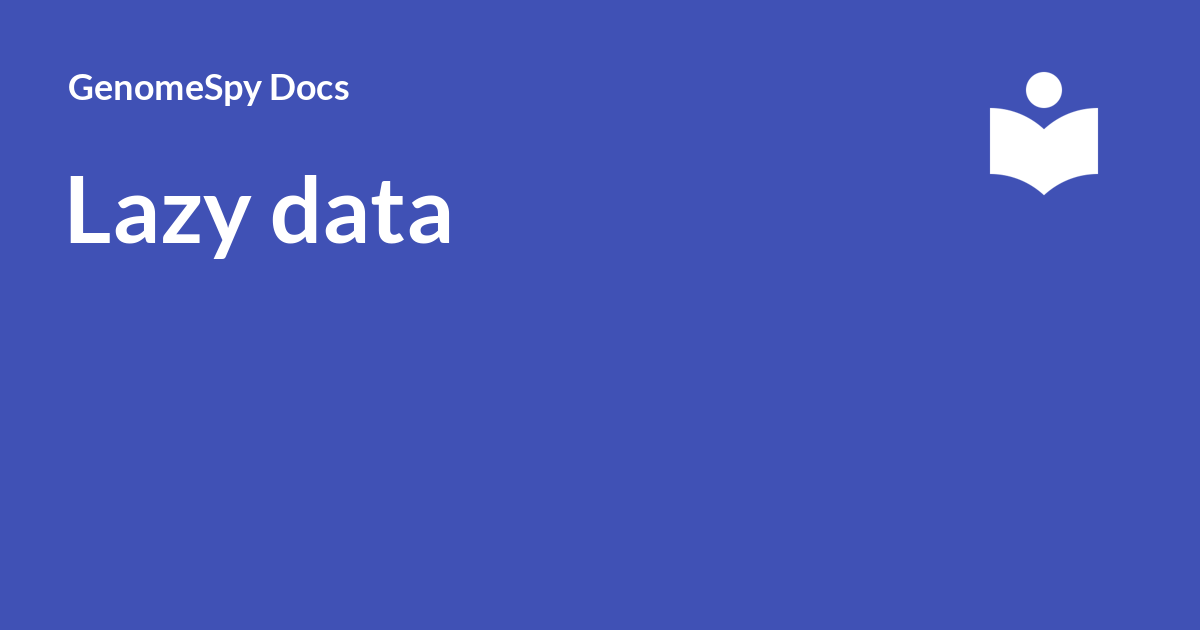
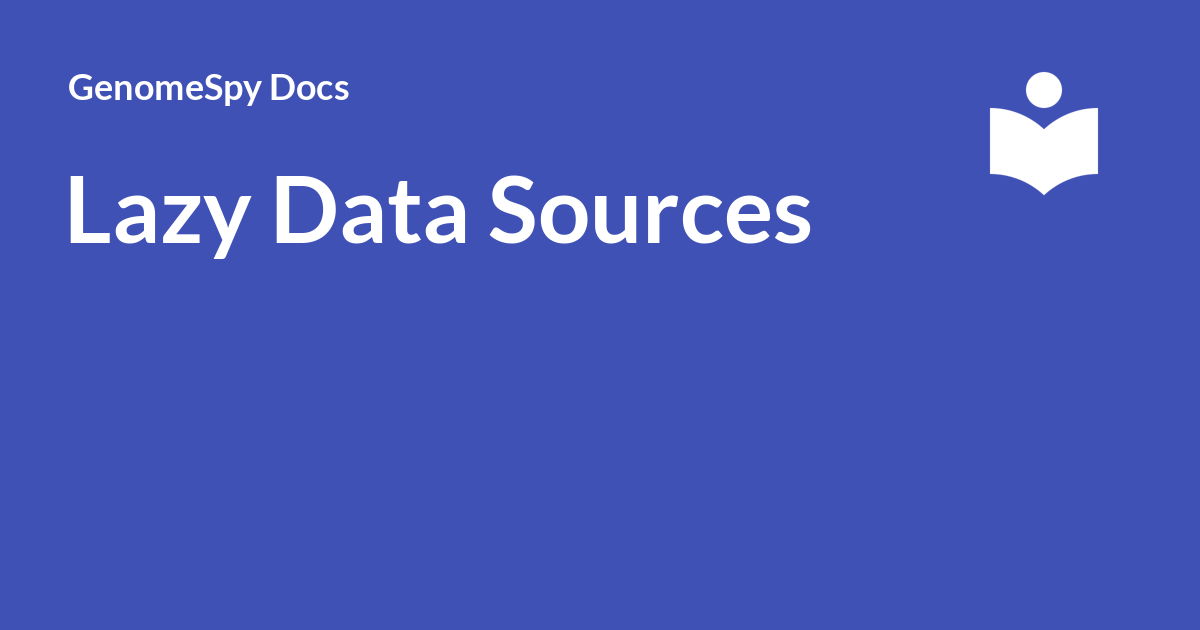
(docs) genome-spy/genome-spy@5c8ceca5e0acdb46549d25e3af512872ac8185b2

Changed region(s): [[0.2158, 0.2714, 0.6783, 0.3921]]

diff --git a/docs/grammar/data/eager/index.html b/docs/grammar/data/eager/index.html
@@ -21,7 +21,7 @@
     
     
       
-        <title>Eager data - GenomeSpy Docs</title>
+        <title>Eager Data Sources - GenomeSpy Docs</title>
       
     
     
@@ -55,7 +55,7 @@
       
         <meta  property="og:type"  content="website" >
       
-        <meta  property="og:title"  content="Eager data - GenomeSpy Docs" >
+        <meta  property="og:title"  content="Eager Data Sources - GenomeSpy Docs" >
       
         <meta  property="og:description"  content="None" >
       
@@ -71,7 +71,7 @@
       
         <meta  name="twitter:card"  content="summary_large_image" >
       
-        <meta  name="twitter:title"  content="Eager data - GenomeSpy Docs" >
+        <meta  name="twitter:title"  content="Eager Data Sources - GenomeSpy Docs" >
       
         <meta  name="twitter:description"  content="None" >
       
@@ -134,7 +134,7 @@
         <div class="md-header__topic" data-md-component="header-topic">
           <span class="md-ellipsis">
             
-              Eager data
+              Eager Data Sources
             
           </span>
         </div>
@@ -357,12 +357,12 @@
       
       
         <label class="md-nav__link md-nav__link--active" for="__toc">
-          Eager data
+          Eager Data Sources
           <span class="md-nav__icon md-icon"></span>
         </label>
       
       <a href="./" class="md-nav__link md-nav__link--active">
-        Eager data
+        Eager Data Sources
       </a>
       
         
@@ -423,7 +423,7 @@
   
     <li class="md-nav__item">
       <a href="../lazy/" class="md-nav__link">
-        Lazy data
+        Lazy Data Sources
       </a>
     </li>
   

diff --git a/docs/grammar/data/lazy/index.html b/docs/grammar/data/lazy/index.html
@@ -21,7 +21,7 @@
     
     
       
-        <title>Lazy data - GenomeSpy Docs</title>
+        <title>Lazy Data Sources - GenomeSpy Docs</title>
       
     
     
@@ -55,7 +55,7 @@
       
         <meta  property="og:type"  content="website" >
       
-        <meta  property="og:title"  content="Lazy data - GenomeSpy Docs" >
+        <meta  property="og:title"  content="Lazy Data Sources - GenomeSpy Docs" >
       
         <meta  property="og:description"  content="None" >
       
@@ -71,7 +71,7 @@
       
         <meta  name="twitter:card"  content="summary_large_image" >
       
-        <meta  name="twitter:title"  content="Lazy data - GenomeSpy Docs" >
+        <meta  name="twitter:title"  content="Lazy Data Sources - GenomeSpy Docs" >
       
         <meta  name="twitter:description"  content="None" >
       
@@ -134,7 +134,7 @@
         <div class="md-header__topic" data-md-component="header-topic">
           <span class="md-ellipsis">
             
-              Lazy data
+              Lazy Data Sources
             
           </span>
         </div>
@@ -348,7 +348,7 @@
   
     <li class="md-nav__item">
       <a href="../eager/" class="md-nav__link">
-        Eager data
+        Eager Data Sources
       </a>
     </li>
   
@@ -371,12 +371,12 @@
       
       
         <label class="md-nav__link md-nav__link--active" for="__toc">
-          Lazy data
+          Lazy Data Sources
           <span class="md-nav__icon md-icon"></span>
         </label>
       
       <a href="./" class="md-nav__link md-nav__link--active">
-        Lazy data
+        Lazy Data Sources
       </a>
       
         

diff --git a/docs/404.html b/docs/404.html
@@ -307,7 +307,7 @@
   
     <li class="md-nav__item">
       <a href="/docs/grammar/data/eager/" class="md-nav__link">
-        Eager data
+        Eager Data Sources
       </a>
     </li>
   
@@ -321,7 +321,7 @@
   
     <li class="md-nav__item">
       <a href="/docs/grammar/data/lazy/" class="md-nav__link">
-        Lazy data
+        Lazy Data Sources
       </a>
     </li>
   

diff --git a/docs/genomic-data/examples/index.html b/docs/genomic-data/examples/index.html
@@ -344,7 +344,7 @@
   
     <li class="md-nav__item">
       <a href="../../grammar/data/eager/" class="md-nav__link">
-        Eager data
+        Eager Data Sources
       </a>
     </li>
   
@@ -358,7 +358,7 @@
   
     <li class="md-nav__item">
       <a href="../../grammar/data/lazy/" class="md-nav__link">
-        Lazy data
+        Lazy Data Sources
       </a>
     </li>
   

diff --git a/docs/genomic-data/genomic-coordinates/index.html b/docs/genomic-data/genomic-coordinates/index.html
@@ -344,7 +344,7 @@
   
     <li class="md-nav__item">
       <a href="../../grammar/data/eager/" class="md-nav__link">
-        Eager data
+        Eager Data Sources
       </a>
     </li>
   
@@ -358,7 +358,7 @@
   
     <li class="md-nav__item">
       <a href="../../grammar/data/lazy/" class="md-nav__link">
-        Lazy data
+        Lazy Data Sources
       </a>
     </li>
   

diff --git a/docs/genomic-data/tracks/index.html b/docs/genomic-data/tracks/index.html
@@ -340,7 +340,7 @@
   
     <li class="md-nav__item">
       <a href="../../grammar/data/eager/" class="md-nav__link">
-        Eager data
+        Eager Data Sources
       </a>
     </li>
   
@@ -354,7 +354,7 @@
   
     <li class="md-nav__item">
       <a href="../../grammar/data/lazy/" class="md-nav__link">
-        Lazy data
+        Lazy Data Sources
       </a>
     </li>
   

diff --git a/docs/sample-collections/analyzing/index.html b/docs/sample-collections/analyzing/index.html
@@ -344,7 +344,7 @@
   
     <li class="md-nav__item">
       <a href="../../grammar/data/eager/" class="md-nav__link">
-        Eager data
+        Eager Data Sources
       </a>
     </li>
   
@@ -358,7 +358,7 @@
   
     <li class="md-nav__item">
       <a href="../../grammar/data/lazy/" class="md-nav__link">
-        Lazy data
+        Lazy Data Sources
       </a>
     </li>
   

diff --git a/docs/sample-collections/visualizing/index.html b/docs/sample-collections/visualizing/index.html
@@ -344,7 +344,7 @@
   
     <li class="md-nav__item">
       <a href="../../grammar/data/eager/" class="md-nav__link">
-        Eager data
+        Eager Data Sources
       </a>
     </li>
   
@@ -358,7 +358,7 @@
   
     <li class="md-nav__item">
       <a href="../../grammar/data/lazy/" class="md-nav__link">
-        Lazy data
+        Lazy Data Sources
       </a>
     </li>
   

diff --git a/docs/api/index.html b/docs/api/index.html
@@ -344,7 +344,7 @@
   
     <li class="md-nav__item">
       <a href="../grammar/data/eager/" class="md-nav__link">
-        Eager data
+        Eager Data Sources
       </a>
     </li>
   
@@ -358,7 +358,7 @@
   
     <li class="md-nav__item">
       <a href="../grammar/data/lazy/" class="md-nav__link">
-        Lazy data
+        Lazy Data Sources
       </a>
     </li>
   

diff --git a/docs/getting-started/index.html b/docs/getting-started/index.html
@@ -453,7 +453,7 @@
   
     <li class="md-nav__item">
       <a href="../grammar/data/eager/" class="md-nav__link">
-        Eager data
+        Eager Data Sources
       </a>
     </li>
   
@@ -467,7 +467,7 @@
   
     <li class="md-nav__item">
       <a href="../grammar/data/lazy/" class="md-nav__link">
-        Lazy data
+        Lazy Data Sources
       </a>
     </li>
   

diff --git a/docs/license/index.html b/docs/license/index.html
@@ -342,7 +342,7 @@
   
     <li class="md-nav__item">
       <a href="../grammar/data/eager/" class="md-nav__link">
-        Eager data
+        Eager Data Sources
       </a>
     </li>
   
@@ -356,7 +356,7 @@
   
     <li class="md-nav__item">
       <a href="../grammar/data/lazy/" class="md-nav__link">
-        Lazy data
+        Lazy Data Sources
       </a>
     </li>
   

diff --git a/docs/sample-collections/index.html b/docs/sample-collections/index.html
@@ -344,7 +344,7 @@
   
     <li class="md-nav__item">
       <a href="../grammar/data/eager/" class="md-nav__link">
-        Eager data
+        Eager Data Sources
       </a>
     </li>
   
@@ -358,7 +358,7 @@
   
     <li class="md-nav__item">
       <a href="../grammar/data/lazy/" class="md-nav__link">
-        Lazy data
+        Lazy Data Sources
       </a>
     </li>
   
